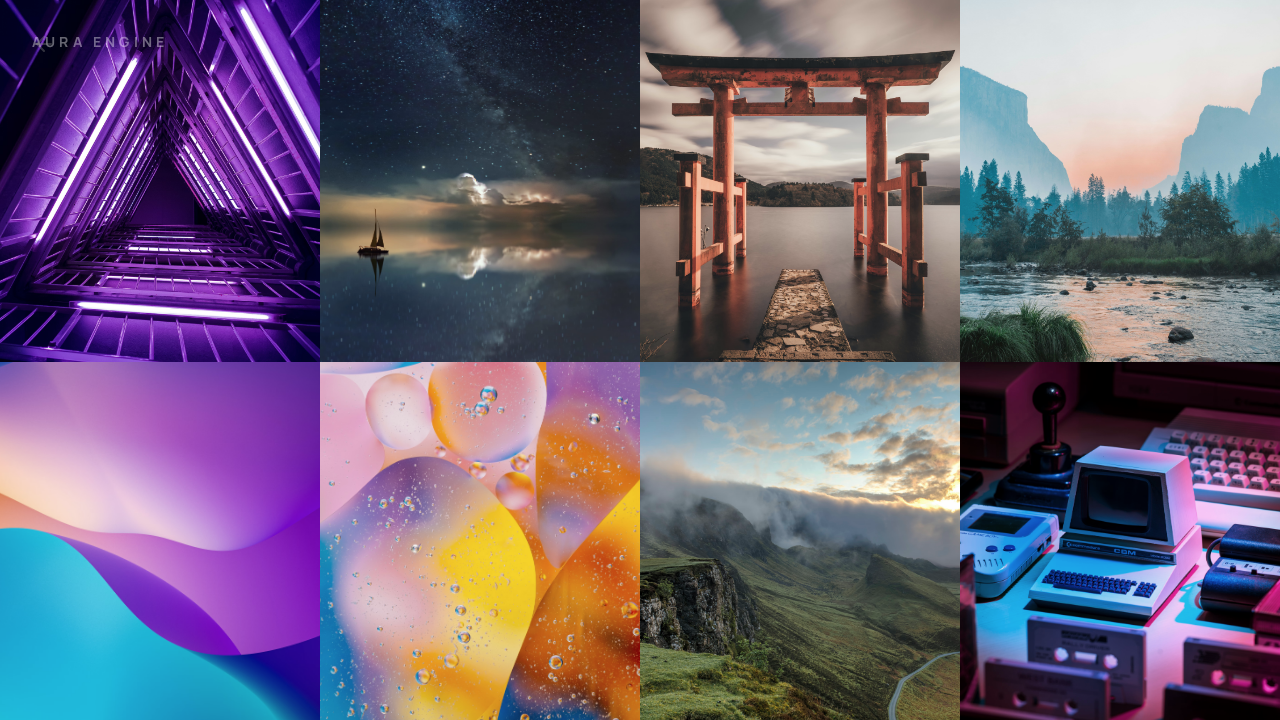
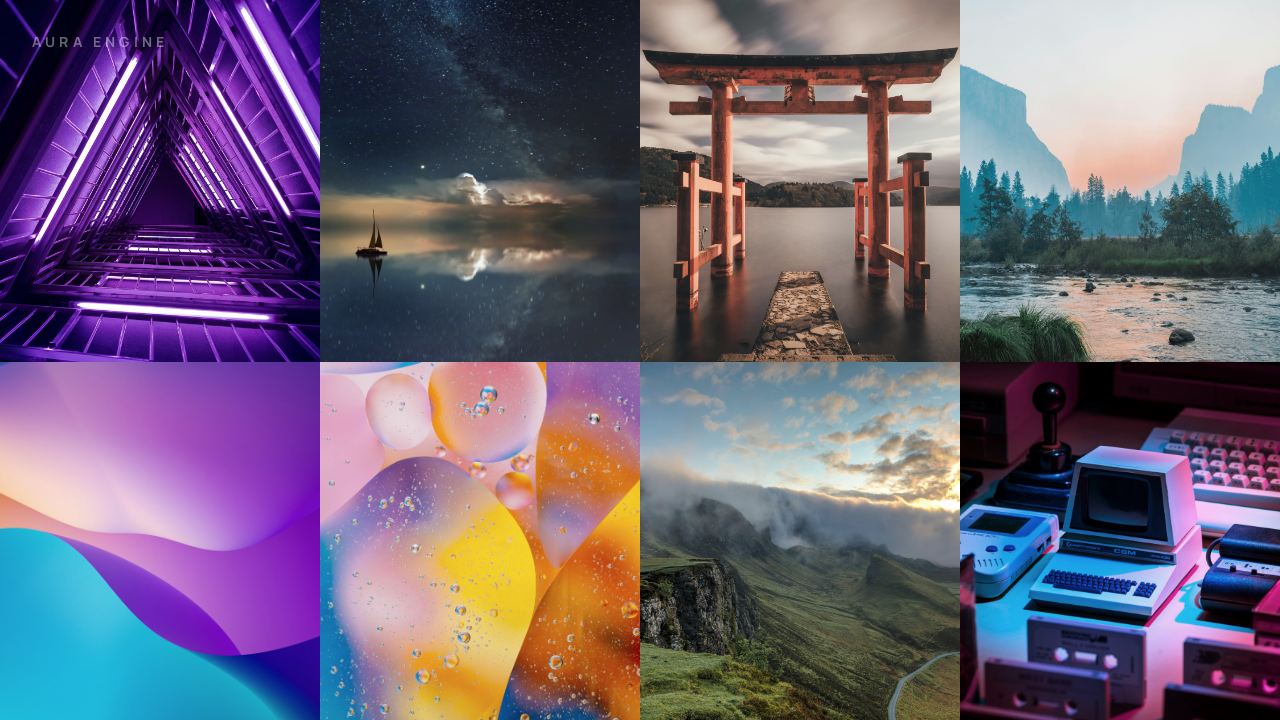
Refine Aura Engine with Physics interactions and No-UI philosophy
- Updated `Aura.tsx` to use Framer Motion springs (`whileHover`) for physics-based weight.
- Implemented "Breathing" animation for grid items using continuous subtle scaling.
- Applied "Quantum State" visibility to the Back button (hidden until hovered).
- Implemented "Reductionist Prompting" where suggestion clicks populate the Oracle input.
- Fixed overlay pointer-events blocking interactions with suggestion chips.
- Verified interactions via `verify_aura.py`.

diff --git a/src/views/Aura.tsx b/src/views/Aura.tsx
@@ -23,6 +23,10 @@ const Aura: React.FC = () => {
 
   const selectedItem = MOCK_AURA_ITEMS.find(item => item.id === selectedId);
 
+  const handleSuggestionClick = (text: string) => {
+      setPrompt(text);
+  };
+
   return (
     <div className="min-h-screen bg-black text-white selection:bg-white/20 overflow-hidden relative font-sans">
 
@@ -37,23 +41,45 @@ const Aura: React.FC = () => {
         </div>
 
         <div className="grid grid-cols-2 md:grid-cols-3 lg:grid-cols-4 w-full h-screen">
-          {MOCK_AURA_ITEMS.map((item) => (
+          {MOCK_AURA_ITEMS.map((item, index) => (
             <motion.div
               layoutId={`card-${item.id}`}
               key={item.id}
-              className="relative aspect-[3/4] md:aspect-auto md:h-full group cursor-pointer overflow-hidden border-0"
+              className="relative aspect-[3/4] md:aspect-auto md:h-full group cursor-pointer overflow-hidden border-0 bg-black"
               onMouseEnter={() => setHoveredId(item.id)}
               onMouseLeave={() => setHoveredId(null)}
               onClick={() => setSelectedId(item.id)}
+              initial={{ opacity: 0, y: 20 }}
+              animate={{ opacity: 1, y: 0 }}
+              transition={{ delay: index * 0.1, duration: 0.8 }}
             >
+              {/* Image with Physics-based Hover (Spring) */}
               <motion.img
                 src={item.url}
                 alt={item.title}
-                className="w-full h-full object-cover grayscale-[20%] group-hover:grayscale-0 transition-all duration-700 ease-out scale-100 group-hover:scale-105"
+                className="w-full h-full object-cover"
+                initial={{ filter: 'grayscale(20%)' }}
+                whileHover={{
+                    scale: 1.05,
+                    filter: 'grayscale(0%)',
+                    transition: { type: "spring", stiffness: 200, damping: 20 }
+                }}
+                /* Breathing Effect when not hovered */
+                animate={{
+                    scale: hoveredId === item.id ? 1.05 : [1, 1.02, 1],
+                }}
+                transition={{
+                    scale: {
+                        duration: 8,
+                        repeat: Infinity,
+                        ease: "easeInOut",
+                        delay: index * 1.5
+                    }
+                }}
               />
 
               {/* Zero-Click Info (Ghost Overlay) */}
-              <div className="absolute inset-0 bg-gradient-to-t from-black/80 via-transparent to-transparent opacity-0 group-hover:opacity-100 transition-opacity duration-500 flex flex-col justify-end p-8">
+              <div className="absolute inset-0 bg-gradient-to-t from-black/80 via-transparent to-transparent opacity-0 group-hover:opacity-100 transition-opacity duration-500 flex flex-col justify-end p-8 pointer-events-none">
                 <motion.h3 className="text-xl font-light tracking-wide text-white mb-1" layoutId={`title-${item.id}`}>
                   {item.title}
                 </motion.h3>
@@ -97,48 +123,56 @@ const Aura: React.FC = () => {
               />
 
               {/* Overlay Content */}
-              <div className="absolute inset-0 flex flex-col justify-end p-12 md:p-20 bg-gradient-to-t from-black via-black/20 to-transparent">
-                  <motion.h2
-                    layoutId={`title-${selectedId}`}
-                    className="text-4xl md:text-6xl font-extralight tracking-tight text-white mb-2"
-                  >
-                    {selectedItem.title}
-                  </motion.h2>
+              <div className="absolute inset-0 flex flex-col justify-end p-12 md:p-20 bg-gradient-to-t from-black via-black/20 to-transparent pointer-events-none">
+                  <div className="pointer-events-auto">
+                    <motion.h2
+                        layoutId={`title-${selectedId}`}
+                        className="text-4xl md:text-6xl font-extralight tracking-tight text-white mb-2"
+                    >
+                        {selectedItem.title}
+                    </motion.h2>
 
-                  <div className="flex items-center gap-4 text-white/40 text-xs font-mono tracking-widest uppercase mb-8">
-                      <span>Ref: {selectedItem.id.padStart(3, '0')}</span>
-                      <span>•</span>
-                      <span>Source: Unsplash</span>
-                  </div>
+                    <div className="flex items-center gap-4 text-white/40 text-xs font-mono tracking-widest uppercase mb-8">
+                        <span>Ref: {selectedItem.id.padStart(3, '0')}</span>
+                        <span>•</span>
+                        <span>Source: Unsplash</span>
+                    </div>
 
-                  {/* The Oracle Chat */}
-                  <div className="w-full max-w-xl relative group">
-                      <div className="absolute inset-0 bg-white/5 blur-xl rounded-full opacity-0 group-hover:opacity-100 transition-opacity duration-1000"></div>
-                      <div className="relative flex items-center gap-4 border-b border-white/20 pb-4 focus-within:border-white/60 transition-colors">
-                          <Sparkles size={18} className="text-white/40 animate-pulse-subtle" />
-                          <input
-                            value={prompt}
-                            onChange={(e) => setPrompt(e.target.value)}
-                            placeholder="Type a command to alter reality..."
-                            className="bg-transparent border-none outline-none text-lg text-white placeholder-white/20 w-full font-light"
-                            autoFocus
-                          />
-                          <button className="text-white/40 hover:text-white transition-colors">
-                              <Send size={18} />
-                          </button>
-                      </div>
-                      <div className="mt-2 flex gap-2">
-                           <span className="text-[10px] text-white/20 hover:text-white/60 cursor-pointer transition-colors">make it darker</span>
-                           <span className="text-[10px] text-white/20 hover:text-white/60 cursor-pointer transition-colors">add fog</span>
-                           <span className="text-[10px] text-white/20 hover:text-white/60 cursor-pointer transition-colors">shift to blue</span>
-                      </div>
+                    {/* The Oracle Chat */}
+                    <div className="w-full max-w-xl relative group">
+                        <div className="absolute inset-0 bg-white/5 blur-xl rounded-full opacity-0 group-hover:opacity-100 transition-opacity duration-1000 pointer-events-none"></div>
+                        <div className="relative flex items-center gap-4 border-b border-white/20 pb-4 focus-within:border-white/60 transition-colors">
+                            <Sparkles size={18} className="text-white/40 animate-pulse-subtle" />
+                            <input
+                                value={prompt}
+                                onChange={(e) => setPrompt(e.target.value)}
+                                placeholder="Type a command to alter reality..."
+                                className="bg-transparent border-none outline-none text-lg text-white placeholder-white/20 w-full font-light"
+                                autoFocus
+                            />
+                            <button className="text-white/40 hover:text-white transition-colors">
+                                <Send size={18} />
+                            </button>
+                        </div>
+                        <div className="mt-2 flex gap-2">
+                            {['make it darker', 'add fog', 'shift to blue'].map((suggestion) => (
+                                <span
+                                    key={suggestion}
+                                    onClick={() => handleSuggestionClick(suggestion)}
+                                    className="text-[10px] text-white/20 hover:text-white/60 cursor-pointer transition-colors"
+                                >
+                                    {suggestion}
+                                </span>
+                            ))}
+                        </div>
+                    </div>
                   </div>
               </div>
 
               {/* Close Button */}
               <button
                 onClick={(e) => { e.stopPropagation(); setSelectedId(null); }}
-                className="absolute top-8 right-8 text-white/40 hover:text-white transition-colors"
+                className="absolute top-8 right-8 text-white/40 hover:text-white transition-colors z-50"
               >
                   <X size={32} strokeWidth={1} />
               </button>
@@ -147,13 +181,15 @@ const Aura: React.FC = () => {
         )}
       </AnimatePresence>
 
-      {/* Hidden Navigation Back */}
-      <button
-        className="fixed top-8 left-8 z-50 text-white/20 hover:text-white transition-colors mix-blend-difference"
-        onClick={() => navigate('/')}
-      >
-        <ArrowLeft size={24} />
-      </button>
+      {/* Hidden Navigation Back - Quantum State (only visible on hover) */}
+      <div className="fixed top-8 left-8 z-50 opacity-0 hover:opacity-100 transition-opacity duration-500">
+         <button
+            className="text-white/50 hover:text-white transition-colors mix-blend-difference"
+            onClick={() => navigate('/')}
+        >
+            <ArrowLeft size={24} />
+        </button>
+      </div>
 
     </div>
   );

diff --git a/verify_aura.py b/verify_aura.py
@@ -9,7 +9,8 @@ def verify_aura():
         # 1. Navigate to Aura
         try:
             page.goto("http://localhost:5173/aura")
-            page.wait_for_selector("text=Aura Engine", timeout=10000)
+            # Wait for any image to load instead of the hidden header
+            page.wait_for_selector("img", timeout=10000)
             print("Successfully navigated to Aura")
         except Exception as e:
             print(f"Failed to load Aura: {e}")
@@ -20,8 +21,6 @@ def verify_aura():
         print("Captured aura_grid.png")
 
         # 3. Click an item (Focus Mode)
-        # Using the fix mentioned in summary: target the group/container, not the image
-        # The code shows: <motion.div ... className="... group cursor-pointer ...">
         try:
             # Click the first card
             page.click(".group", timeout=5000)
@@ -32,7 +31,18 @@ def verify_aura():
             # Allow animation to settle
             page.wait_for_timeout(1000)
 
-            # 4. Screenshot Focus
+            # 4. Interact with Suggestions (Reductionist Prompting)
+            # Click "make it darker"
+            page.click("text=make it darker")
+
+            # Verify input value updated
+            input_val = page.input_value("input")
+            if input_val == "make it darker":
+                print("Suggestion click successfully updated prompt")
+            else:
+                print(f"Suggestion click failed. Expected 'make it darker', got '{input_val}'")
+
+            # 5. Screenshot Focus
             page.screenshot(path="aura_focus.png")
             print("Captured aura_focus.png")
 
